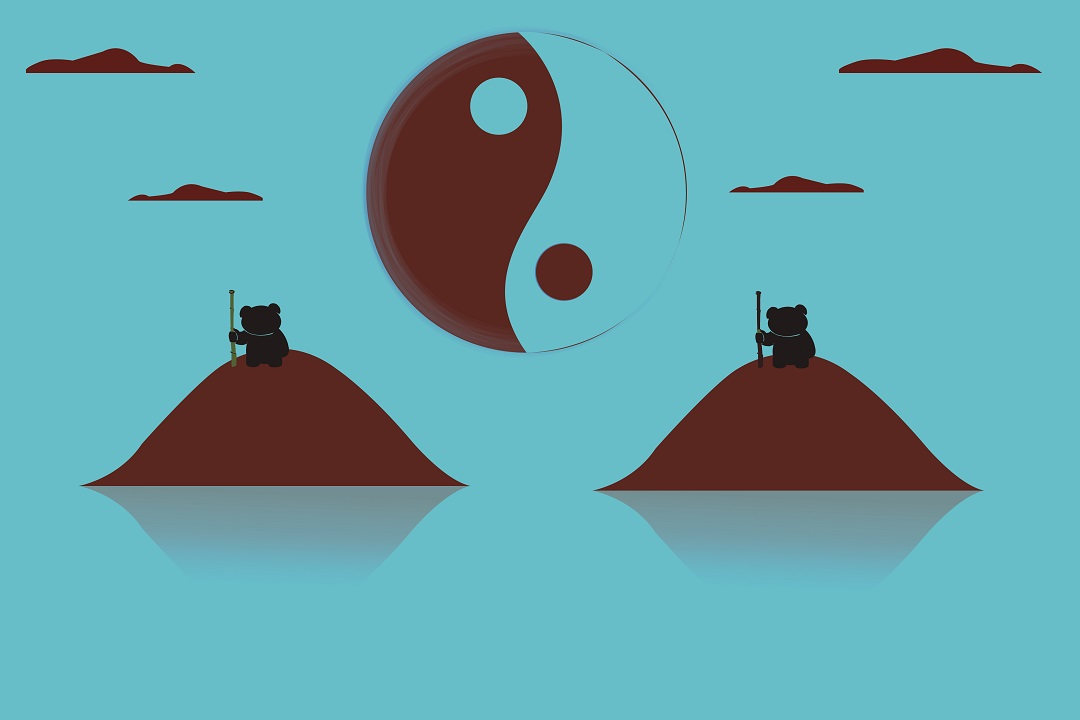
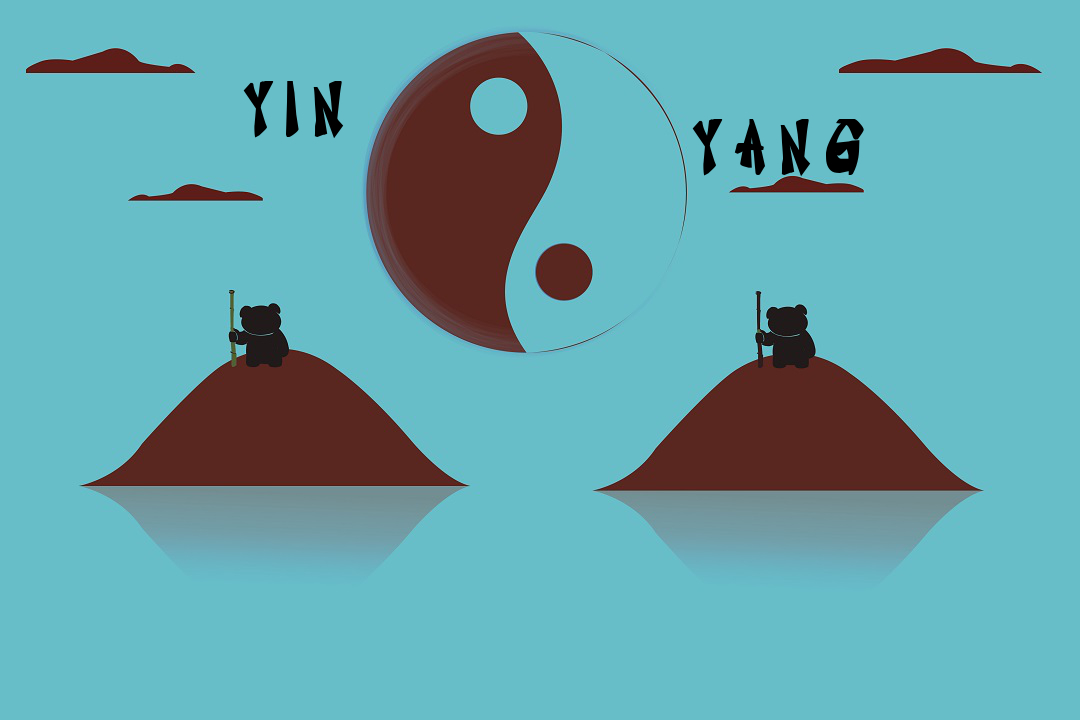
Menu e GameOver
Adicionado uma div de Game Over direto no html ja com seu estilo
denifido.
Menu com o titulo do jogo

Changed region(s): [[0.6417, 0.1528, 0.7944, 0.2444], [0.2139, 0.0917, 0.3361, 0.1833]]

diff --git a/js/game.js b/js/game.js
@@ -7,14 +7,15 @@ var fps = 60; //fps desejado
 var gameStart = true;
 var lastUpdate = null; //Tempo atual (para a fisica)
 var win = '';
-var restart_btn = document.getElementById("restart");
-var menu_btn = document.getElementById("Menu");
 var menuElem = document.getElementById("menu-container");
 var canvasElem = document.getElementById("canvas-container");
+var overElem = document.getElementById("gameOver-container");
 var Player1 = new Player(canvas.width - (canvas.width * 0.98),(canvas.height/2)-50,context);
 var Player2 = new Player(canvas.width - (canvas.width * 0.10),(canvas.height/2)-50,context);
 var BolaO = new ball(8,100,context);
 var BolaT = new ball(8,canvas.height/2,context);
+var restart_btn = document.getElementById("restart");
+var menu_btn = document.getElementById("Menu");
 //Objetos do jogo
 var blocosGame = [];
 
@@ -24,8 +25,6 @@ function gameInit(){
   Player2 = new Player(canvas.width - (canvas.width * 0.10),(canvas.height/2)-50,context);
   BolaO = new ball(canvas.width - (canvas.width * 0.60),100,context);
   BolaT = new ball(canvas.width - (canvas.width * 0.30),canvas.height/2,context);
-  restart_btn.style.display = "none";
-  menu_btn.style.display = "none"
 
   lastUpdate = Date.now(); //Tempo atual (para a fisica)
 
@@ -143,16 +142,20 @@ function render(){//Desenhar os objetos no canvas
 function gameOver(){
 console.debug("GameOver");
 context.clearRect(0,0, canvas.width, canvas.height);
-context.font = '42pt CHINESETAKEAWAY';
-context.fillStyle = '#000000';
-context.fillText("O Jogador " + win + " Venceu", (canvas.width / 2) - 180, (canvas.height / 2) - 50);
-restart_btn.style.display = "block";
-menu_btn.style.display = "block";
+//context.drawImage(ImageLoader.images['vitoria'],0,0);
+//context.font = '40pt CHINESETAKEAWAY';
+//context.fillStyle = '#000000';
+//context.fillText("O Jogador " + win + " Venceu", (canvas.width / 2) - 220, canvas.height - (canvas.height * 0.10));
+canvasElem.style.display = "none";
+overElem.style.display = 'block';
 console.debug("Restart block");
 restart_btn.onclick = function(){
   gameInit();
+  canvasElem.style.display = "block";
+  overElem.style.display = 'none';
 }
 menu_btn.onclick = function(){
+    overElem.style.display = 'none';
     menuElem.style.display = "block";
     canvasElem.style.display = "none";
     init();

diff --git a/css/main.css b/css/main.css
@@ -31,19 +31,7 @@ body {
       width: 1080px;
       height: 720px;
   }
-  #menu_btn {
-      position: absolute;
-      top: 800px;
-      left: 600px;
-      visibility: hidden;
-  }
 
-  #restart_btn {
-      position: absolute;
-      top: 800px;
-      left: 600px;
-      visibility: hidden;
-  }
   /* Menu Style */
   #menu-container {
       display: block;
@@ -63,6 +51,30 @@ body {
       top: 590px;
       left:320px;
   }
+
+  /* Game over Style */
+  #gameOver-container {
+      display: none;
+      margin: 0 auto;
+      width: 1080px;
+      height: 720px;
+      background-image: url('../imgs/VITORIA.jpg');
+  }
+
+  #restart {
+    display: block;
+    position: relative;
+    top: 560px;
+    left: 220px;
+  }
+
+  #Menu {
+    display: block;
+    position: relative;
+    top: 570px;
+    left: 620px;
+  }
+
 
   /* About Style*/
   #about-container {

diff --git a/index.html b/index.html
@@ -11,8 +11,6 @@
          This text is displayed if your browser does not support HTML5 Canvas.
     </canvas-->
     <div id="canvas-container" class="container_border">
-      <button id="restart" class="button">Restart</button>
-      <button id="Menu" class="button">Menu</button>
       <canvas id="canvas" width="1080" height="720">
           Navegador não compatível com HTML5 Canvas
       </canvas>
@@ -21,6 +19,11 @@
   <div id="menu-container" class="container_border">
       <button id="start_btn" class="button">Start</button>
       <button id="about_btn" class="button">About</button>
+  </div>
+
+  <div id="gameOver-container" class="container_border">
+    <button id="restart" class="button">Restart</button>
+    <button id="Menu" class="button">Menu</button>
   </div>
 
   <div id="about-container" class="container_border">
